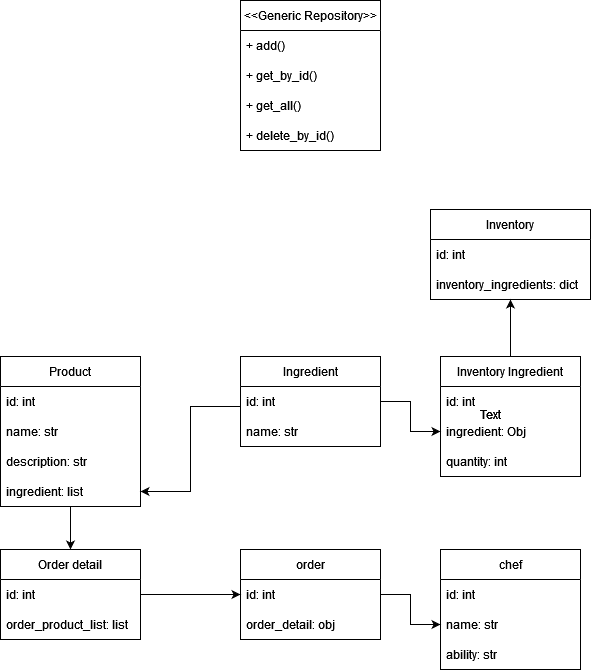
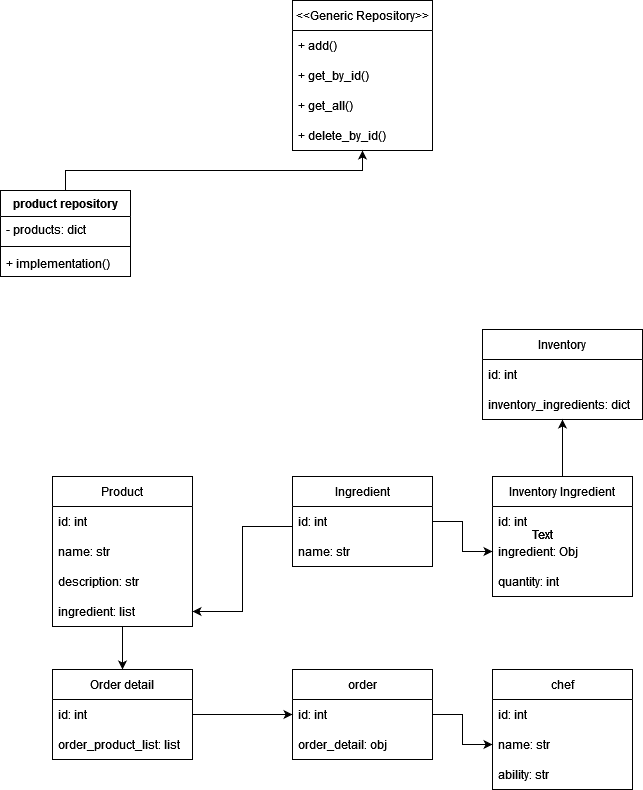
Adding product repository description to readme file

diff --git a/README.md b/README.md
@@ -18,8 +18,10 @@
 
 * Generic Repository - This repository will be used as an interface to expose generic methods that could be used by
   the developer in order to implement generic operation over a given entity.
+* Product Repository - This repository will be used to implement operations to manages products entities.
 
 UML Diagram:
 
-![UML](https://github.com/eapg/EA_RESTAURANT/blob/feature/generic-repository/UML_Diagram.png?raw=true)
+![UML](https://github.com/eapg/EA_RESTAURANT/blob/feature/product-repository/UML_Diagram.png?raw=true)
+
 
